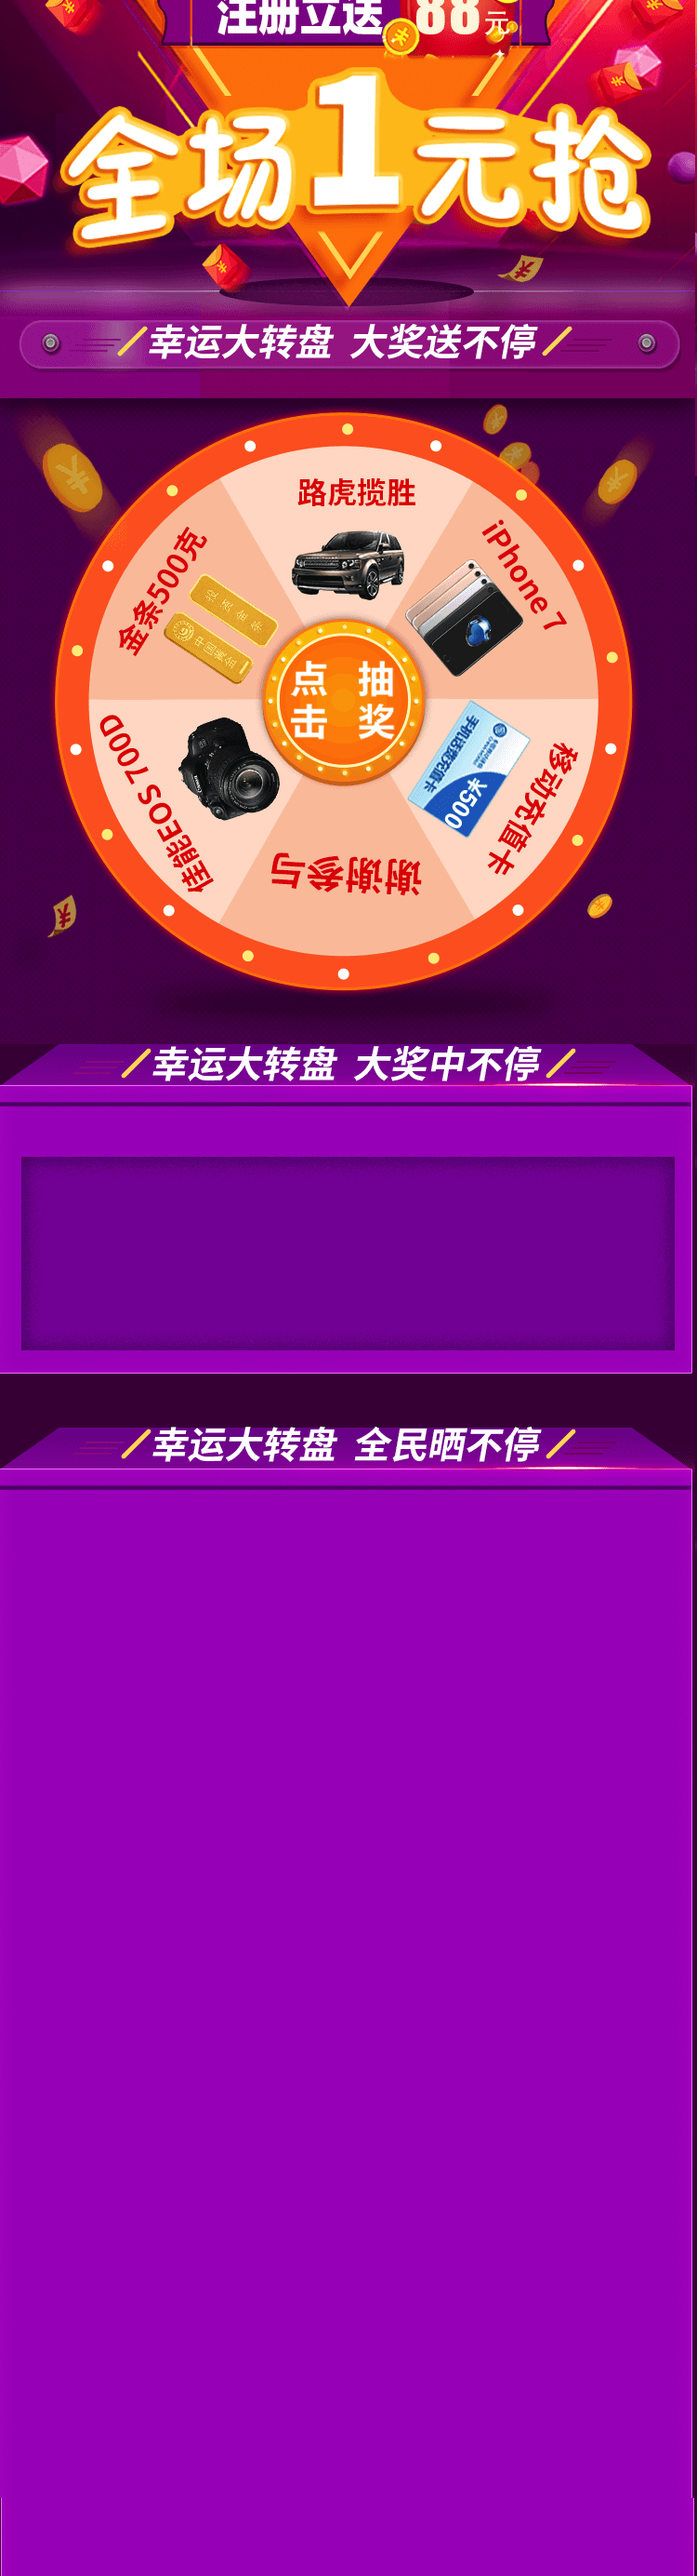
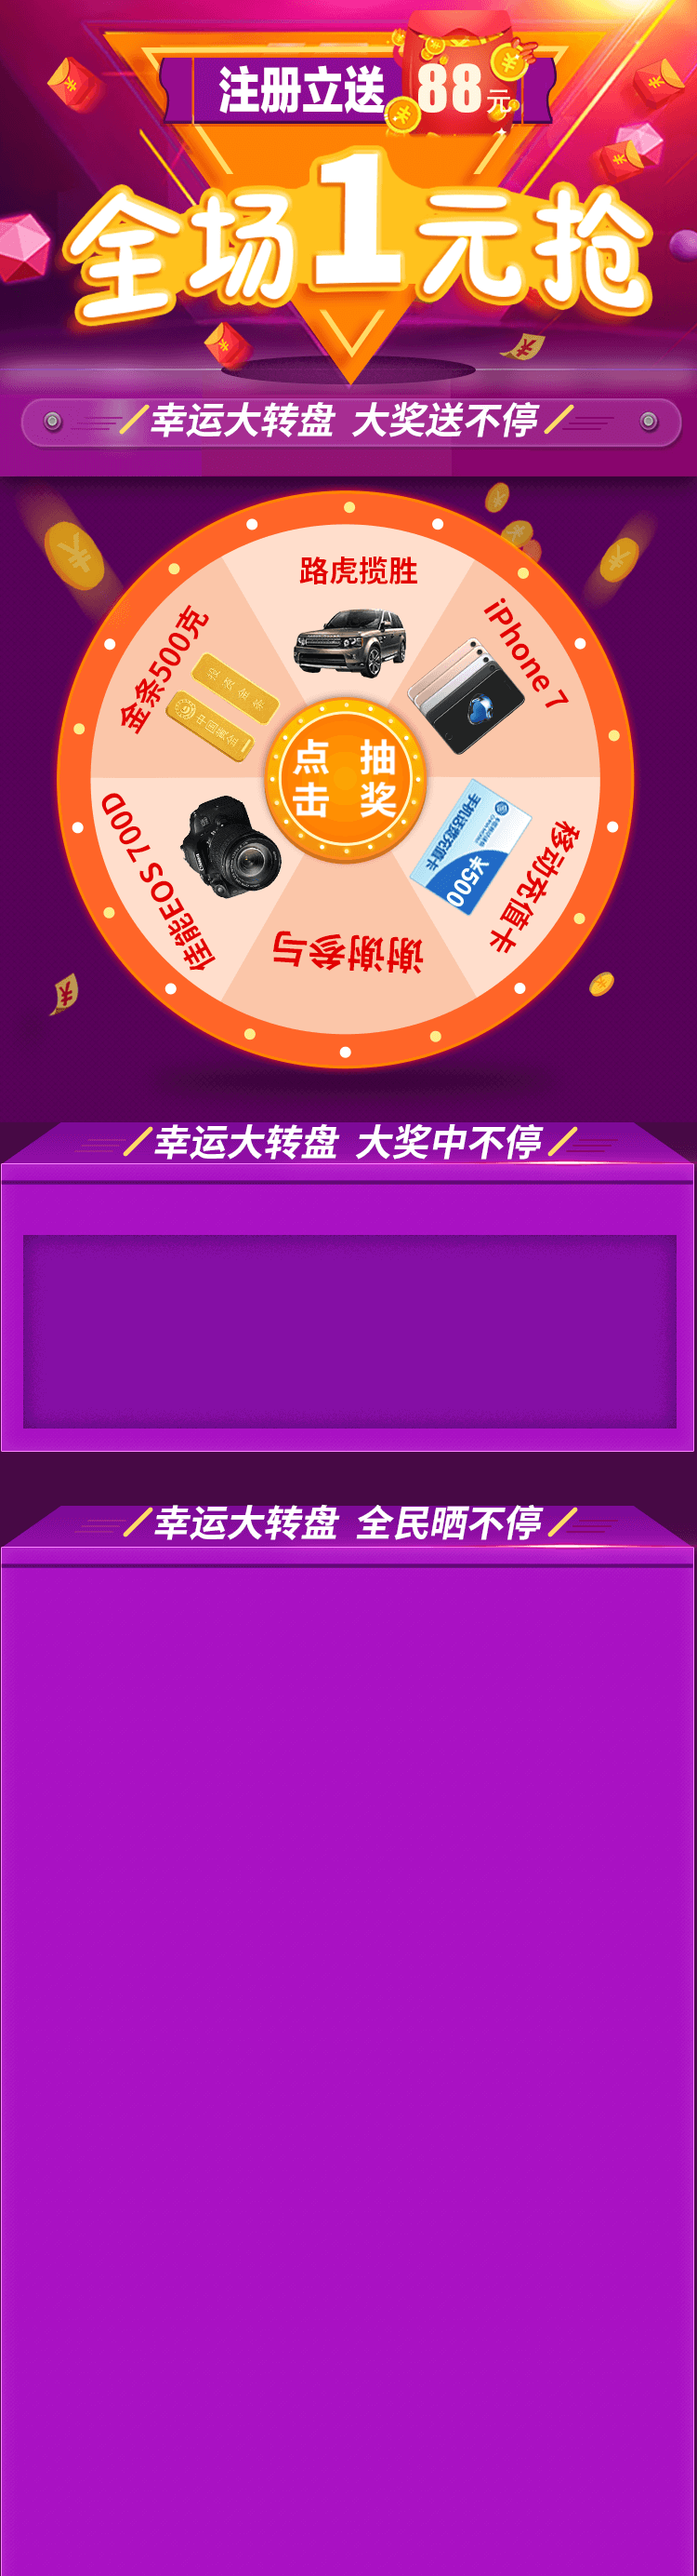
no message

diff --git a/lazy/index.css b/lazy/index.css
@@ -200,6 +200,7 @@ input:-ms-input-placeholder {
 .winner_box {
     position: absolute;
     top: 12.4rem;
+    top: 13.3rem;
     /*left: 22%;*/
     width: 100%;
     height: 2rem;
@@ -246,7 +247,7 @@ input:-ms-input-placeholder {
     overflow: hidden;
     width: 90%;
     position: absolute;
-    top: 16rem;
+    top: 16.8rem;
 }
 
 .slide_show {
@@ -366,7 +367,7 @@ input:-ms-input-placeholder {
 
 .dl_product_show dd {
     position: relative;
-    padding: 5px 15px 5px 70px;
+    padding: 5px 15px 0px 70px;
 }
 
 .dl_product_show dd .avatar {
@@ -532,3 +533,77 @@ input:-ms-input-placeholder {
         cursor: pointer
     }
 }
+/*add*/
+.dl_product_show dd .avatar {
+        width: 1rem;
+        height: 1rem;
+        left: .10rem;
+    }
+     
+    .dl_product_show dd .info img {
+        width: 4.35rem;
+        height: 1.28rem;
+        margin-top: -0.2rem;
+    }
+    
+    .footer {
+        position: absolute;
+        left: 0.3rem;
+        bottom: 0.3rem;
+        background-color: #8310a5;
+        border-radius: .2rem;
+        width: 6.9rem;
+    }
+    
+    .footer h2 {
+        font-size: .32rem;
+        color: #fec623;
+        font-weight: bold;
+        padding-left: .34rem;
+        padding-top: .16rem;
+    }
+    
+    .footer p {
+        font-size: .28rem;
+        color: #fec625;
+        font-weight: bold;
+        padding-left: .34rem;
+        padding-right: .64rem;
+        padding-bottom: .16rem;
+        text-indent: 2em;
+    }
+    
+    .turntable_box {
+        position: absolute;
+        overflow: hidden;
+        text-align: center;
+        left: 0;
+        top: 5.64rem;
+        width: 100%;
+    }
+    
+    .turntable_box .r {
+        width: 5.43rem;
+        height: 5.43rem;
+        margin-left: -0.1rem;
+    }
+    
+    .turntable_box .b {
+        position: absolute;
+        top: 29%;
+        left: 34%;
+        height: 40%;
+        width: auto;
+        cursor: pointer;
+        -webkit-user-select: none;
+    }
+    
+    .alert {
+        width: 100%;
+        height: 13.34rem;
+        z-index: 999;
+        position: fixed;
+        left: 0;
+        top: 0;
+        display: none;
+    }

diff --git a/lazy/index.html b/lazy/index.html
@@ -21,94 +21,6 @@
         doc.style.fontSize = curDeviceWidth * (50 / 375) + 'px';
     })(document);
     </script>
-    <style>
-    .dl_product_show dd .avatar {
-        width: 1rem;
-        height: 1rem;
-        left: .10rem;
-    }
-    
-    .dl_product_show dd {
-        /*height: 2.6rem;*/
-        /*border: 1px solid #000;*/
-    }
-    
-    .dl_product_show dd h3 {
-        /*margin-left: -0.5rem;*/
-    }
-    
-    .dl_product_show dd .info {
-        /*margin-left: -0.5rem;*/
-    }
-    
-    .dl_product_show dd .info img {
-        width: 4.35rem;
-        height: 1.28rem;
-        margin-top: -0.2rem;
-    }
-    
-    .footer {
-        position: absolute;
-        left: 0.3rem;
-        bottom: 0.3rem;
-        background-color: #8310a5;
-        border-radius: .2rem;
-        width: 6.9rem;
-    }
-    
-    .footer h2 {
-        font-size: .32rem;
-        color: #fec623;
-        font-weight: bold;
-        padding-left: .34rem;
-        padding-top: .16rem;
-    }
-    
-    .footer p {
-        font-size: .28rem;
-        color: #fec625;
-        font-weight: bold;
-        padding-left: .34rem;
-        padding-right: .64rem;
-        padding-bottom: .16rem;
-        text-indent: 2em;
-    }
-    
-    .turntable_box {
-        position: absolute;
-        overflow: hidden;
-        text-align: center;
-        left: 0;
-        top: 4.84rem;
-        width: 100%;
-    }
-    
-    .turntable_box .r {
-        width: 5.43rem;
-        height: 5.43rem;
-        margin-left: -0.1rem;
-    }
-    
-    .turntable_box .b {
-        position: absolute;
-        top: 29%;
-        left: 34%;
-        height: 40%;
-        width: auto;
-        cursor: pointer;
-        -webkit-user-select: none;
-    }
-    
-    .alert {
-        width: 100%;
-        height: 13.34rem;
-        z-index: 999;
-        position: fixed;
-        left: 0;
-        top: 0;
-        display: none;
-    }
-    </style>
 </head>
 
 <body>
